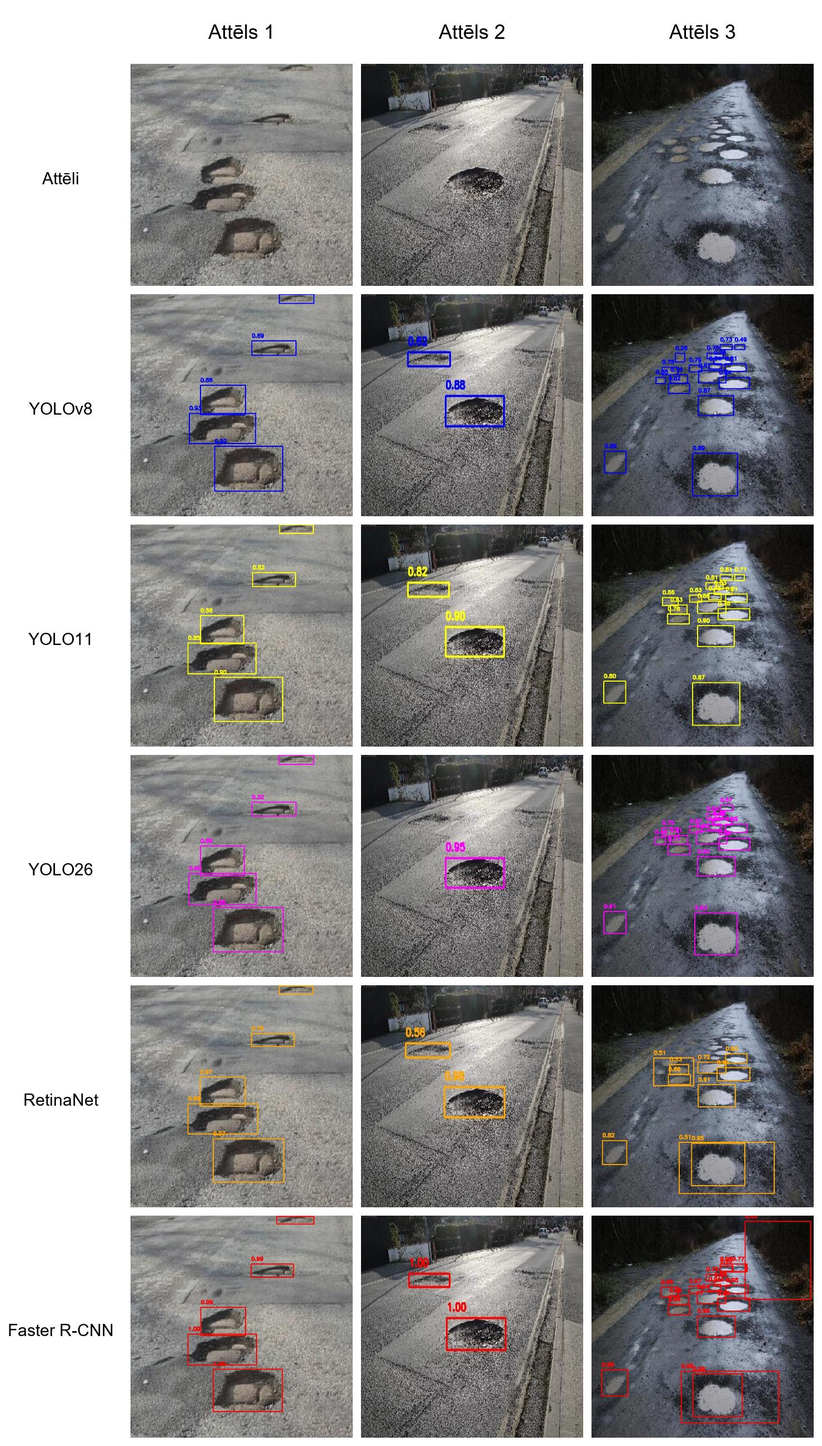
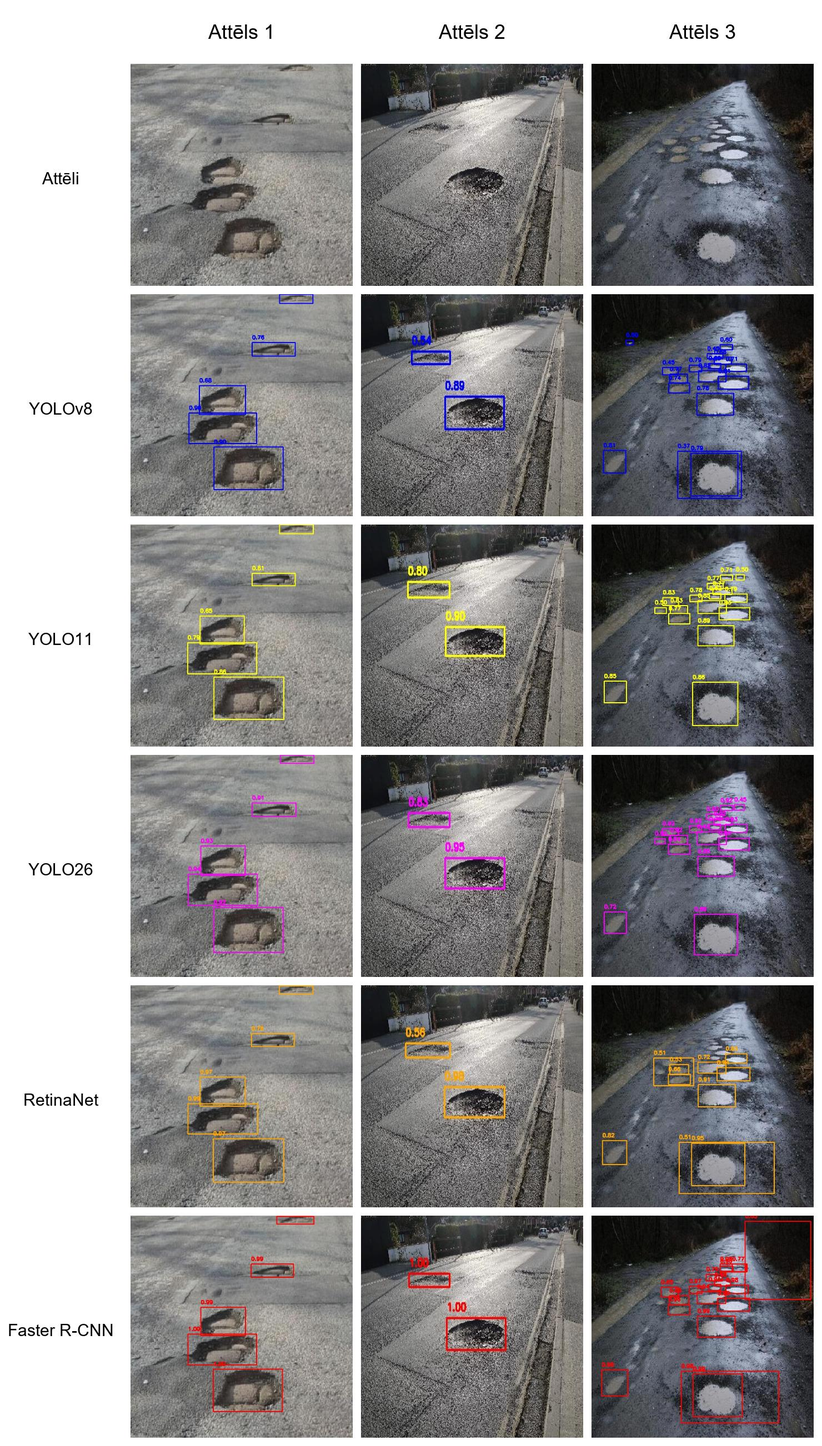
Yolo26

diff --git a/yolo_experiments.py b/yolo_experiments.py
@@ -9,9 +9,10 @@ import torch
 # CONFIG
 # ==========================
 
-base_model = "yolo11m.pt"
+base_model = "yolo26m.pt"
 
 optimizers = [
+    "MuSGD",
     "Adam",
     "Adamax",
     "AdamW",
@@ -25,7 +26,7 @@ imgsz = 640
 epochs = 300
 batch_size = 4
 
-results_dir = "yolo11_optimizer_results"
+results_dir = "yolo26_optimizer_results"
 os.makedirs(results_dir, exist_ok=True)
 
 train_csv = os.path.join(results_dir, "train_results.csv")
@@ -65,12 +66,12 @@ with open(test_csv, "w", newline="") as f:
 for opt in optimizers:
 
     print(f"\n===================================")
-    print(f" YOLO11 Training with {opt}")
+    print(f" YOLO26 Training with {opt}")
     print(f"===================================")
 
     model = YOLO(base_model)
 
-    lr0 = 0.01 if opt == "SGD" else 0.001
+    lr0 = 0.01 if opt == "MuSGD" else 0.001
 
     start_time = time.time()
 
@@ -84,7 +85,7 @@ for opt in optimizers:
         workers=1,
         seed=0,
         device=device,
-        name=f"yolo11_{opt}"
+        name=f"yolo26_{opt}"
     )
 
     training_time = time.time() - start_time
@@ -103,7 +104,7 @@ for opt in optimizers:
     # SAVE WEIGHTS
     # ==========================
     best_weight_path = model.trainer.best
-    saved_model_path = os.path.join(results_dir, f"best_yolo11_{opt}.pt")
+    saved_model_path = os.path.join(results_dir, f"best_yolo26_{opt}.pt")
 
     shutil.copy(best_weight_path, saved_model_path)
 
